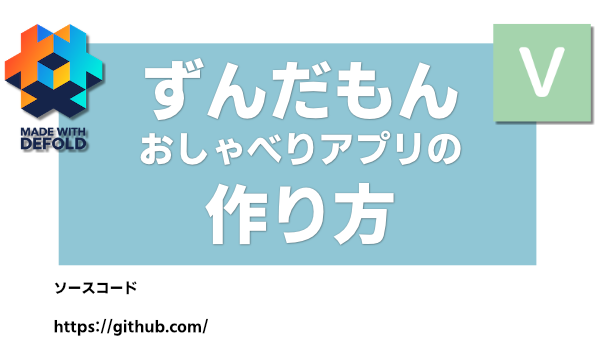
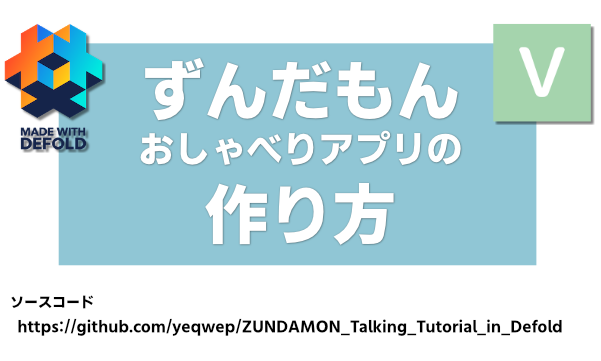
p3

Changed region(s): [[0.03, 0.8837, 0.9584, 0.9446], [0.0, 0.7618, 0.2396, 0.8532]]

diff --git a/readme.md b/readme.md
@@ -7,7 +7,7 @@
  Defold  
  https://defold.com/  
 # DEMO
- https://github.com/  
+ https://yeqwep.itch.io/zundamon-talking-tutorial  
 # Usage
  This is a tutorial for beginners.  
  Open the project file in Defold.  
